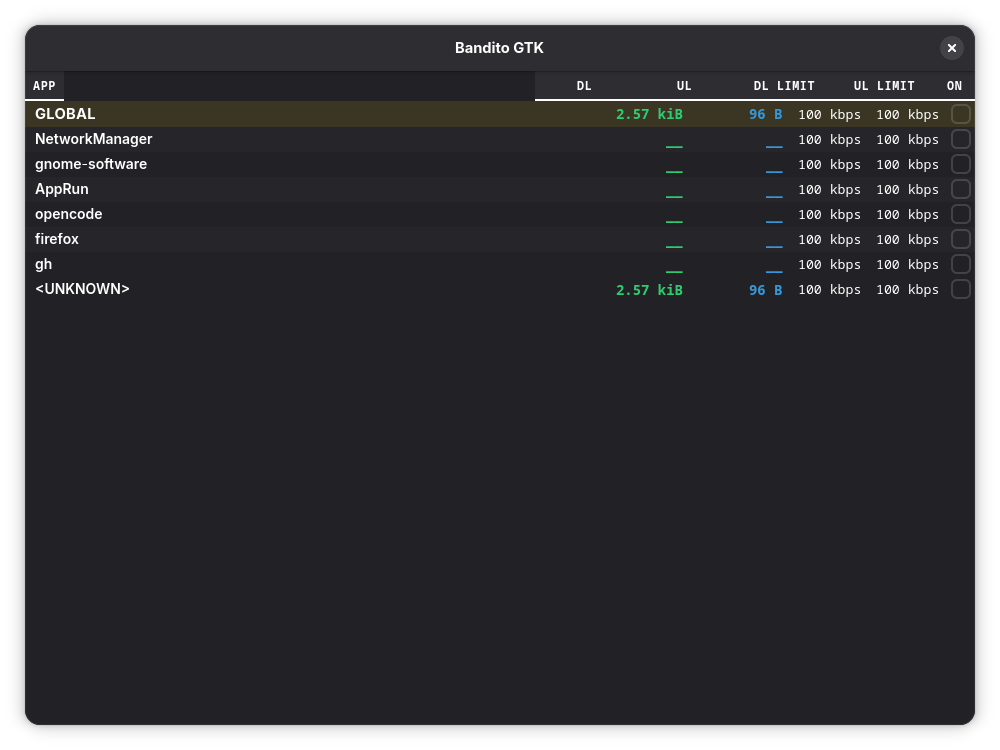
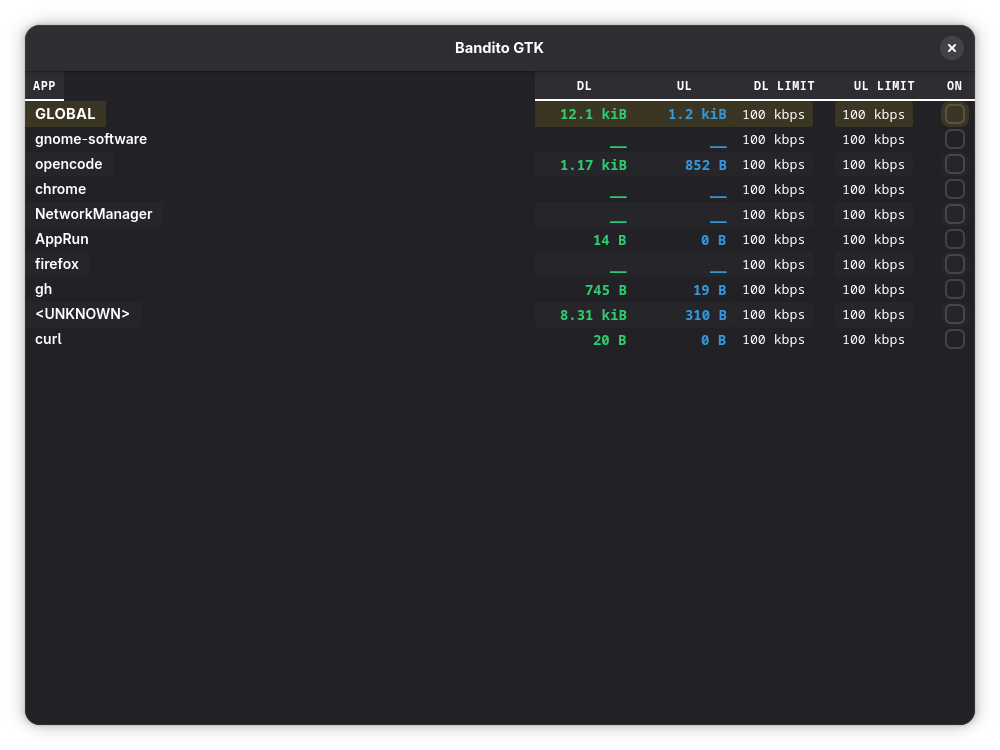
fix grid

diff --git a/src/app_row.ts b/src/app_row.ts
@@ -14,7 +14,6 @@ import { type ElTrafico } from "./eltrafico/eltrafico.ts";
 import type { Unit } from "./types.ts";
 
 export class AppRow {
-  grid: Grid;
   nameLabel: Label;
   dlRateLabel: Label;
   ulRateLabel: Label;
@@ -29,20 +28,17 @@ export class AppRow {
   private debounceTimer: ReturnType<typeof setTimeout> | null = null;
 
   constructor(
+    grid: Grid,
+    row: number,
     eltrafico: ElTrafico,
     public name: string,
     public isGlobal: boolean = false,
-    private rowIndex: number = 0,
   ) {
     this.#eltrafico = eltrafico;
-    this.grid = new Grid();
-    this.grid.setColumnSpacing(0);
-    this.grid.setRowSpacing(0);
 
     const rowClass = isGlobal
       ? "global-row"
-      : (rowIndex % 2 === 0 ? "app-row-even" : "app-row-odd");
-    this.grid.addCssClass(rowClass);
+      : (row % 2 === 0 ? "app-row-even" : "app-row-odd");
 
     this.nameLabel = new Label(isGlobal ? "GLOBAL" : name);
     this.nameLabel.setHalign(Align.START);
@@ -50,25 +46,29 @@ export class AppRow {
     this.nameLabel.setEllipsize(3);
     this.nameLabel.addCssClass(isGlobal ? "global-cell" : "app-cell");
     if (!isGlobal) this.nameLabel.addCssClass("app-name");
-    this.grid.attach(this.nameLabel, 0, 0, 1, 1);
+    this.nameLabel.addCssClass(rowClass);
+    grid.attach(this.nameLabel, 0, row, 1, 1);
 
     this.dlRateLabel = new Label("__");
     this.dlRateLabel.setXalign(1.0);
     this.dlRateLabel.setSizeRequest(100, -1);
     this.dlRateLabel.addCssClass("rate-cell");
     this.dlRateLabel.addCssClass("dl-rate");
-    this.grid.attach(this.dlRateLabel, 1, 0, 1, 1);
+    this.dlRateLabel.addCssClass(rowClass);
+    grid.attach(this.dlRateLabel, 1, row, 1, 1);
 
     this.ulRateLabel = new Label("__");
     this.ulRateLabel.setXalign(1.0);
     this.ulRateLabel.setSizeRequest(100, -1);
     this.ulRateLabel.addCssClass("rate-cell");
     this.ulRateLabel.addCssClass("ul-rate");
-    this.grid.attach(this.ulRateLabel, 2, 0, 1, 1);
+    this.ulRateLabel.addCssClass(rowClass);
+    grid.attach(this.ulRateLabel, 2, row, 1, 1);
 
     this.dlLimitDisplay = new Label("100 kbps");
     this.dlLimitDisplay.addCssClass("limit-display");
     this.dlLimitDisplay.setHalign(Align.START);
+    this.dlLimitDisplay.addCssClass(rowClass);
 
     const dlPopoverBox = new Box(Orientation.HORIZONTAL, 4);
     dlPopoverBox.setMarginTop(6);
@@ -100,11 +100,12 @@ export class AppRow {
       if (this.checkButton.getActive()) this.updateLimitDebounced();
     });
 
-    this.grid.attach(this.dlLimitDisplay, 3, 0, 1, 1);
+    grid.attach(this.dlLimitDisplay, 3, row, 1, 1);
 
     this.ulLimitDisplay = new Label("100 kbps");
     this.ulLimitDisplay.addCssClass("limit-display");
     this.ulLimitDisplay.setHalign(Align.START);
+    this.ulLimitDisplay.addCssClass(rowClass);
 
     const ulPopoverBox = new Box(Orientation.HORIZONTAL, 4);
     ulPopoverBox.setMarginTop(6);
@@ -136,15 +137,16 @@ export class AppRow {
       if (this.checkButton.getActive()) this.updateLimitDebounced();
     });
 
-    this.grid.attach(this.ulLimitDisplay, 4, 0, 1, 1);
+    grid.attach(this.ulLimitDisplay, 4, row, 1, 1);
 
     this.checkButton = new CheckButton();
     this.checkButton.setHalign(Align.CENTER);
     this.checkButton.addCssClass("check-cell");
+    this.checkButton.addCssClass(rowClass);
     this.checkButton.onToggled(() => {
       this.updateLimitDebounced();
     });
-    this.grid.attach(this.checkButton, 5, 0, 1, 1);
+    grid.attach(this.checkButton, 5, row, 1, 1);
   }
 
   updateLimitDisplay() {

diff --git a/src/main.ts b/src/main.ts
@@ -59,16 +59,10 @@ Deno.addSignalListener("SIGINT", () => {
 function ensureAppRow(name: string, isGlobal = false) {
   let appRow = appsMap.get(name);
   if (!appRow) {
-    const rowIndex = isGlobal ? 1 : appsMap.size + 1;
-    appRow = new AppRow(eltrafico, name, isGlobal, rowIndex);
+    const row = isGlobal ? 1 : tableRowCount;
+    appRow = new AppRow(tableGrid, row, eltrafico, name, isGlobal);
     appsMap.set(name, appRow);
-    if (isGlobal) {
-      tableGrid.attach(appRow.grid, 0, 1, 6, 1);
-    } else {
-      const row = tableRowCount;
-      tableGrid.attach(appRow.grid, 0, row, 6, 1);
-      tableRowCount++;
-    }
+    if (!isGlobal) tableRowCount++;
   }
   return appRow;
 }